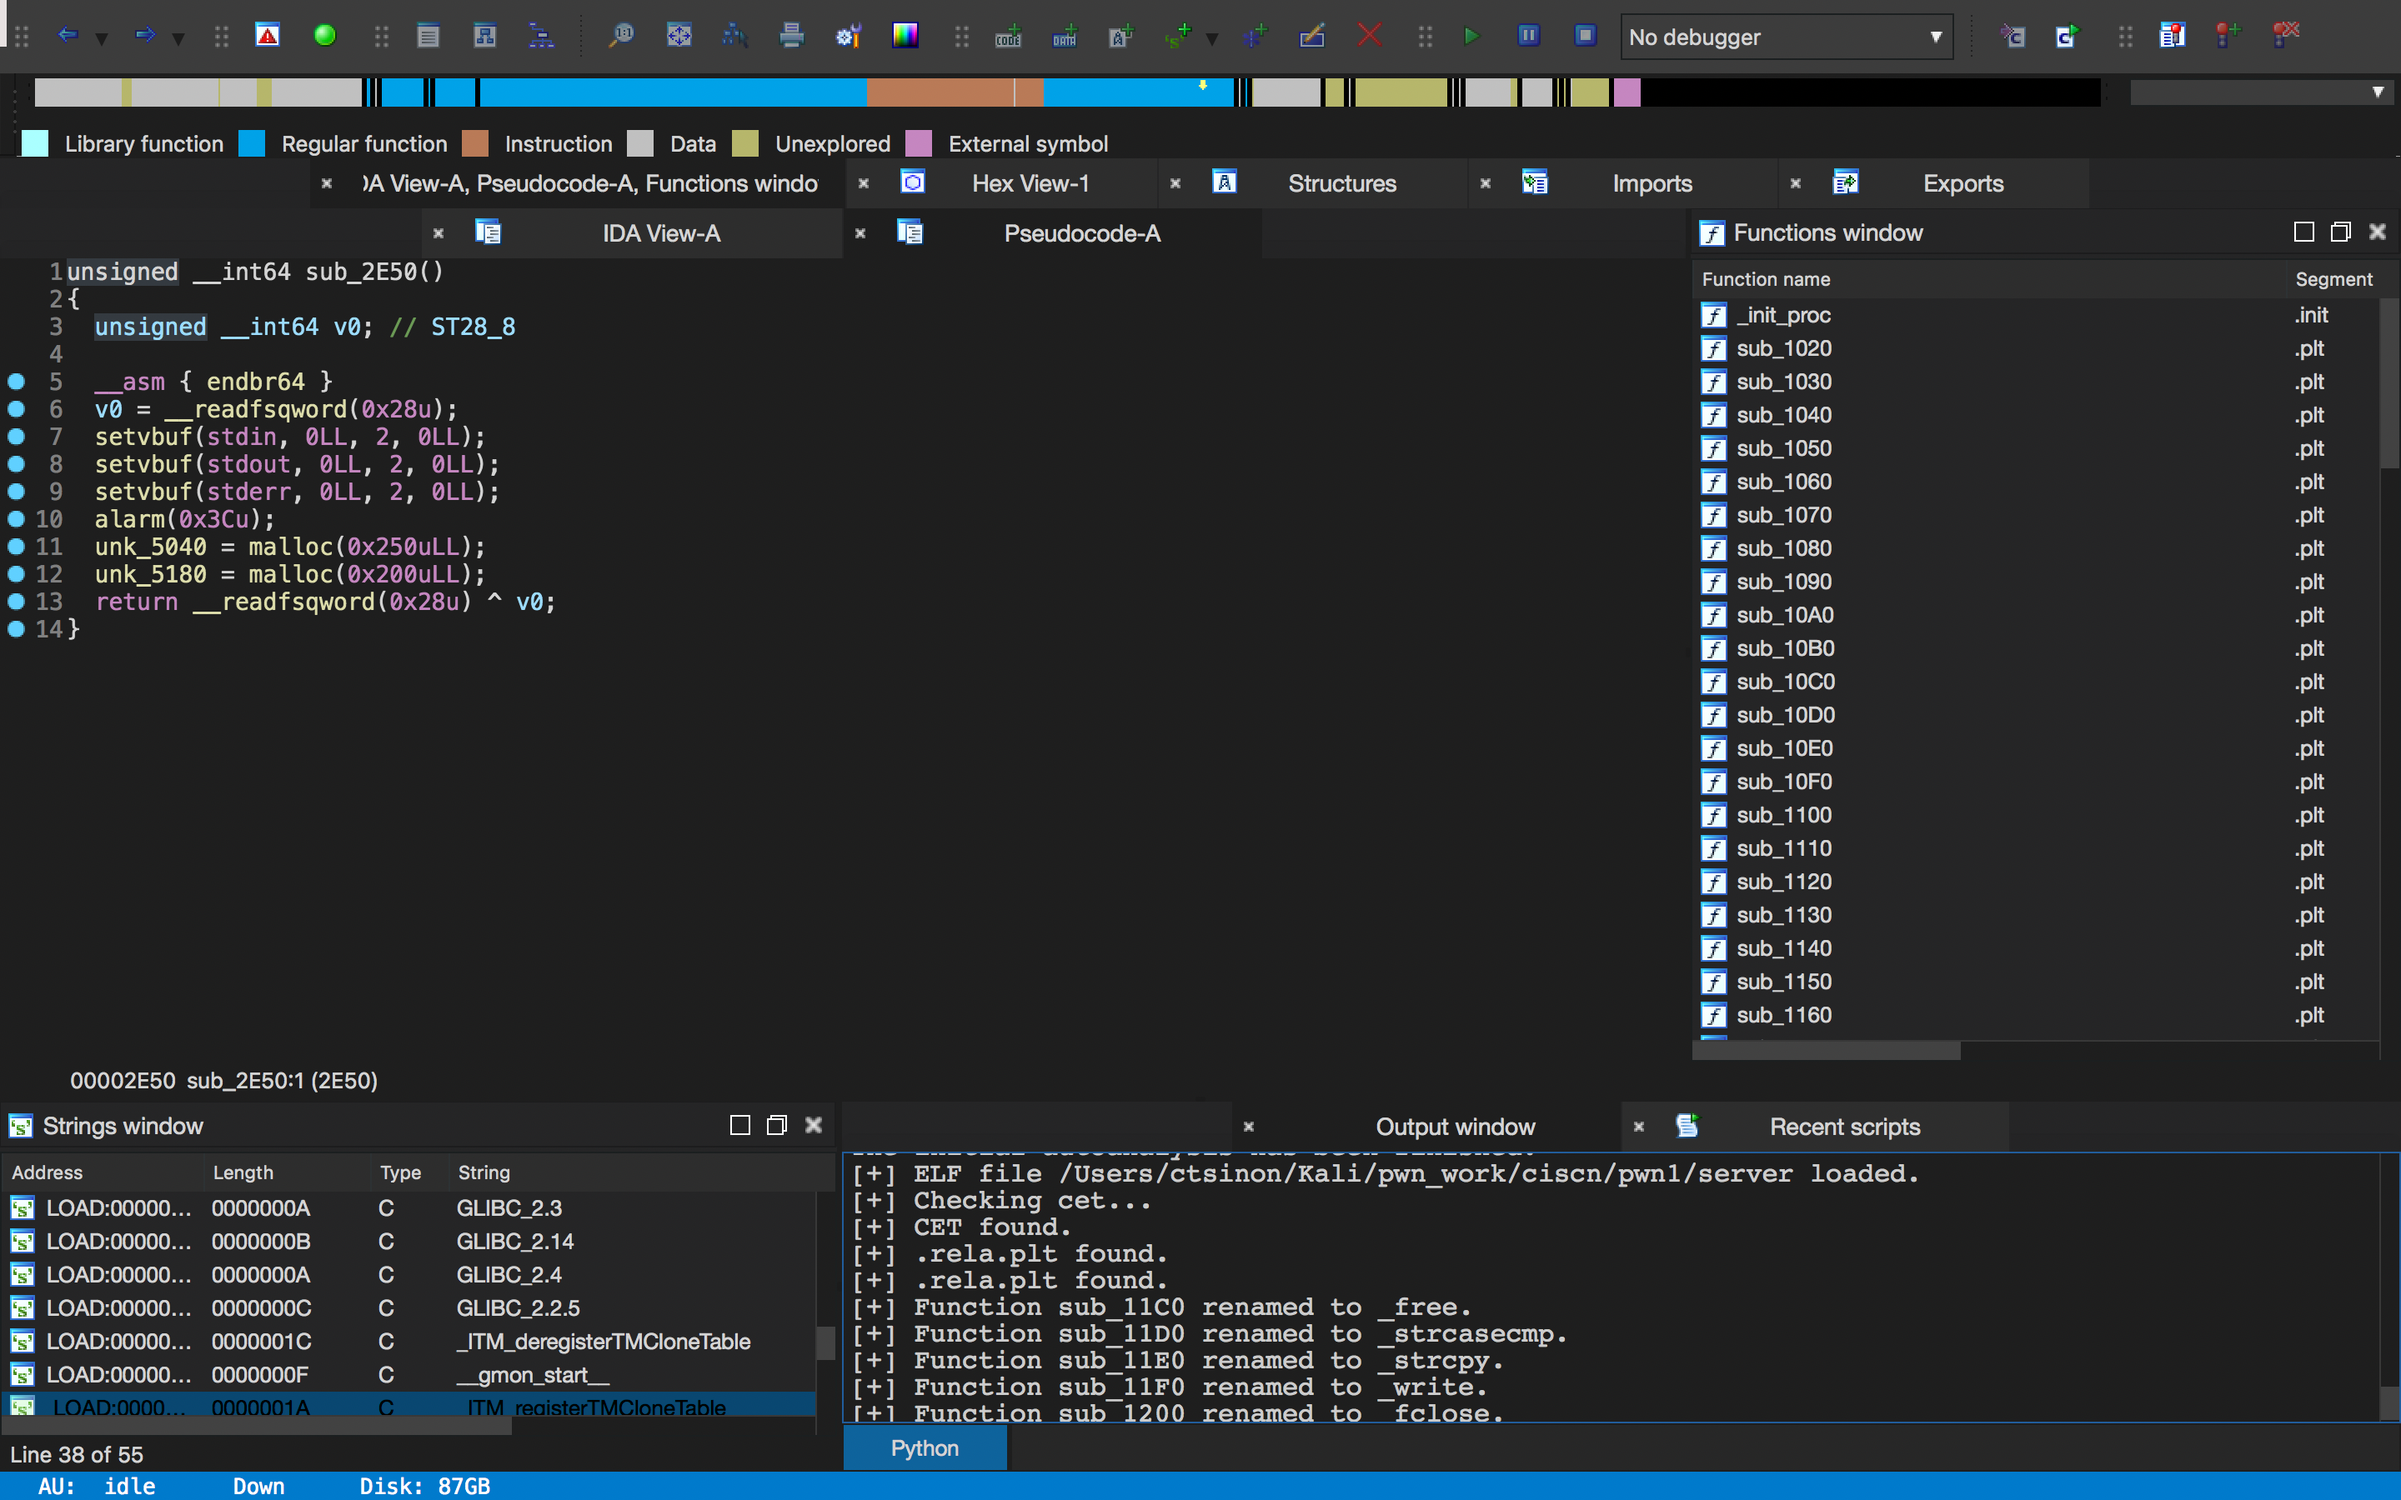
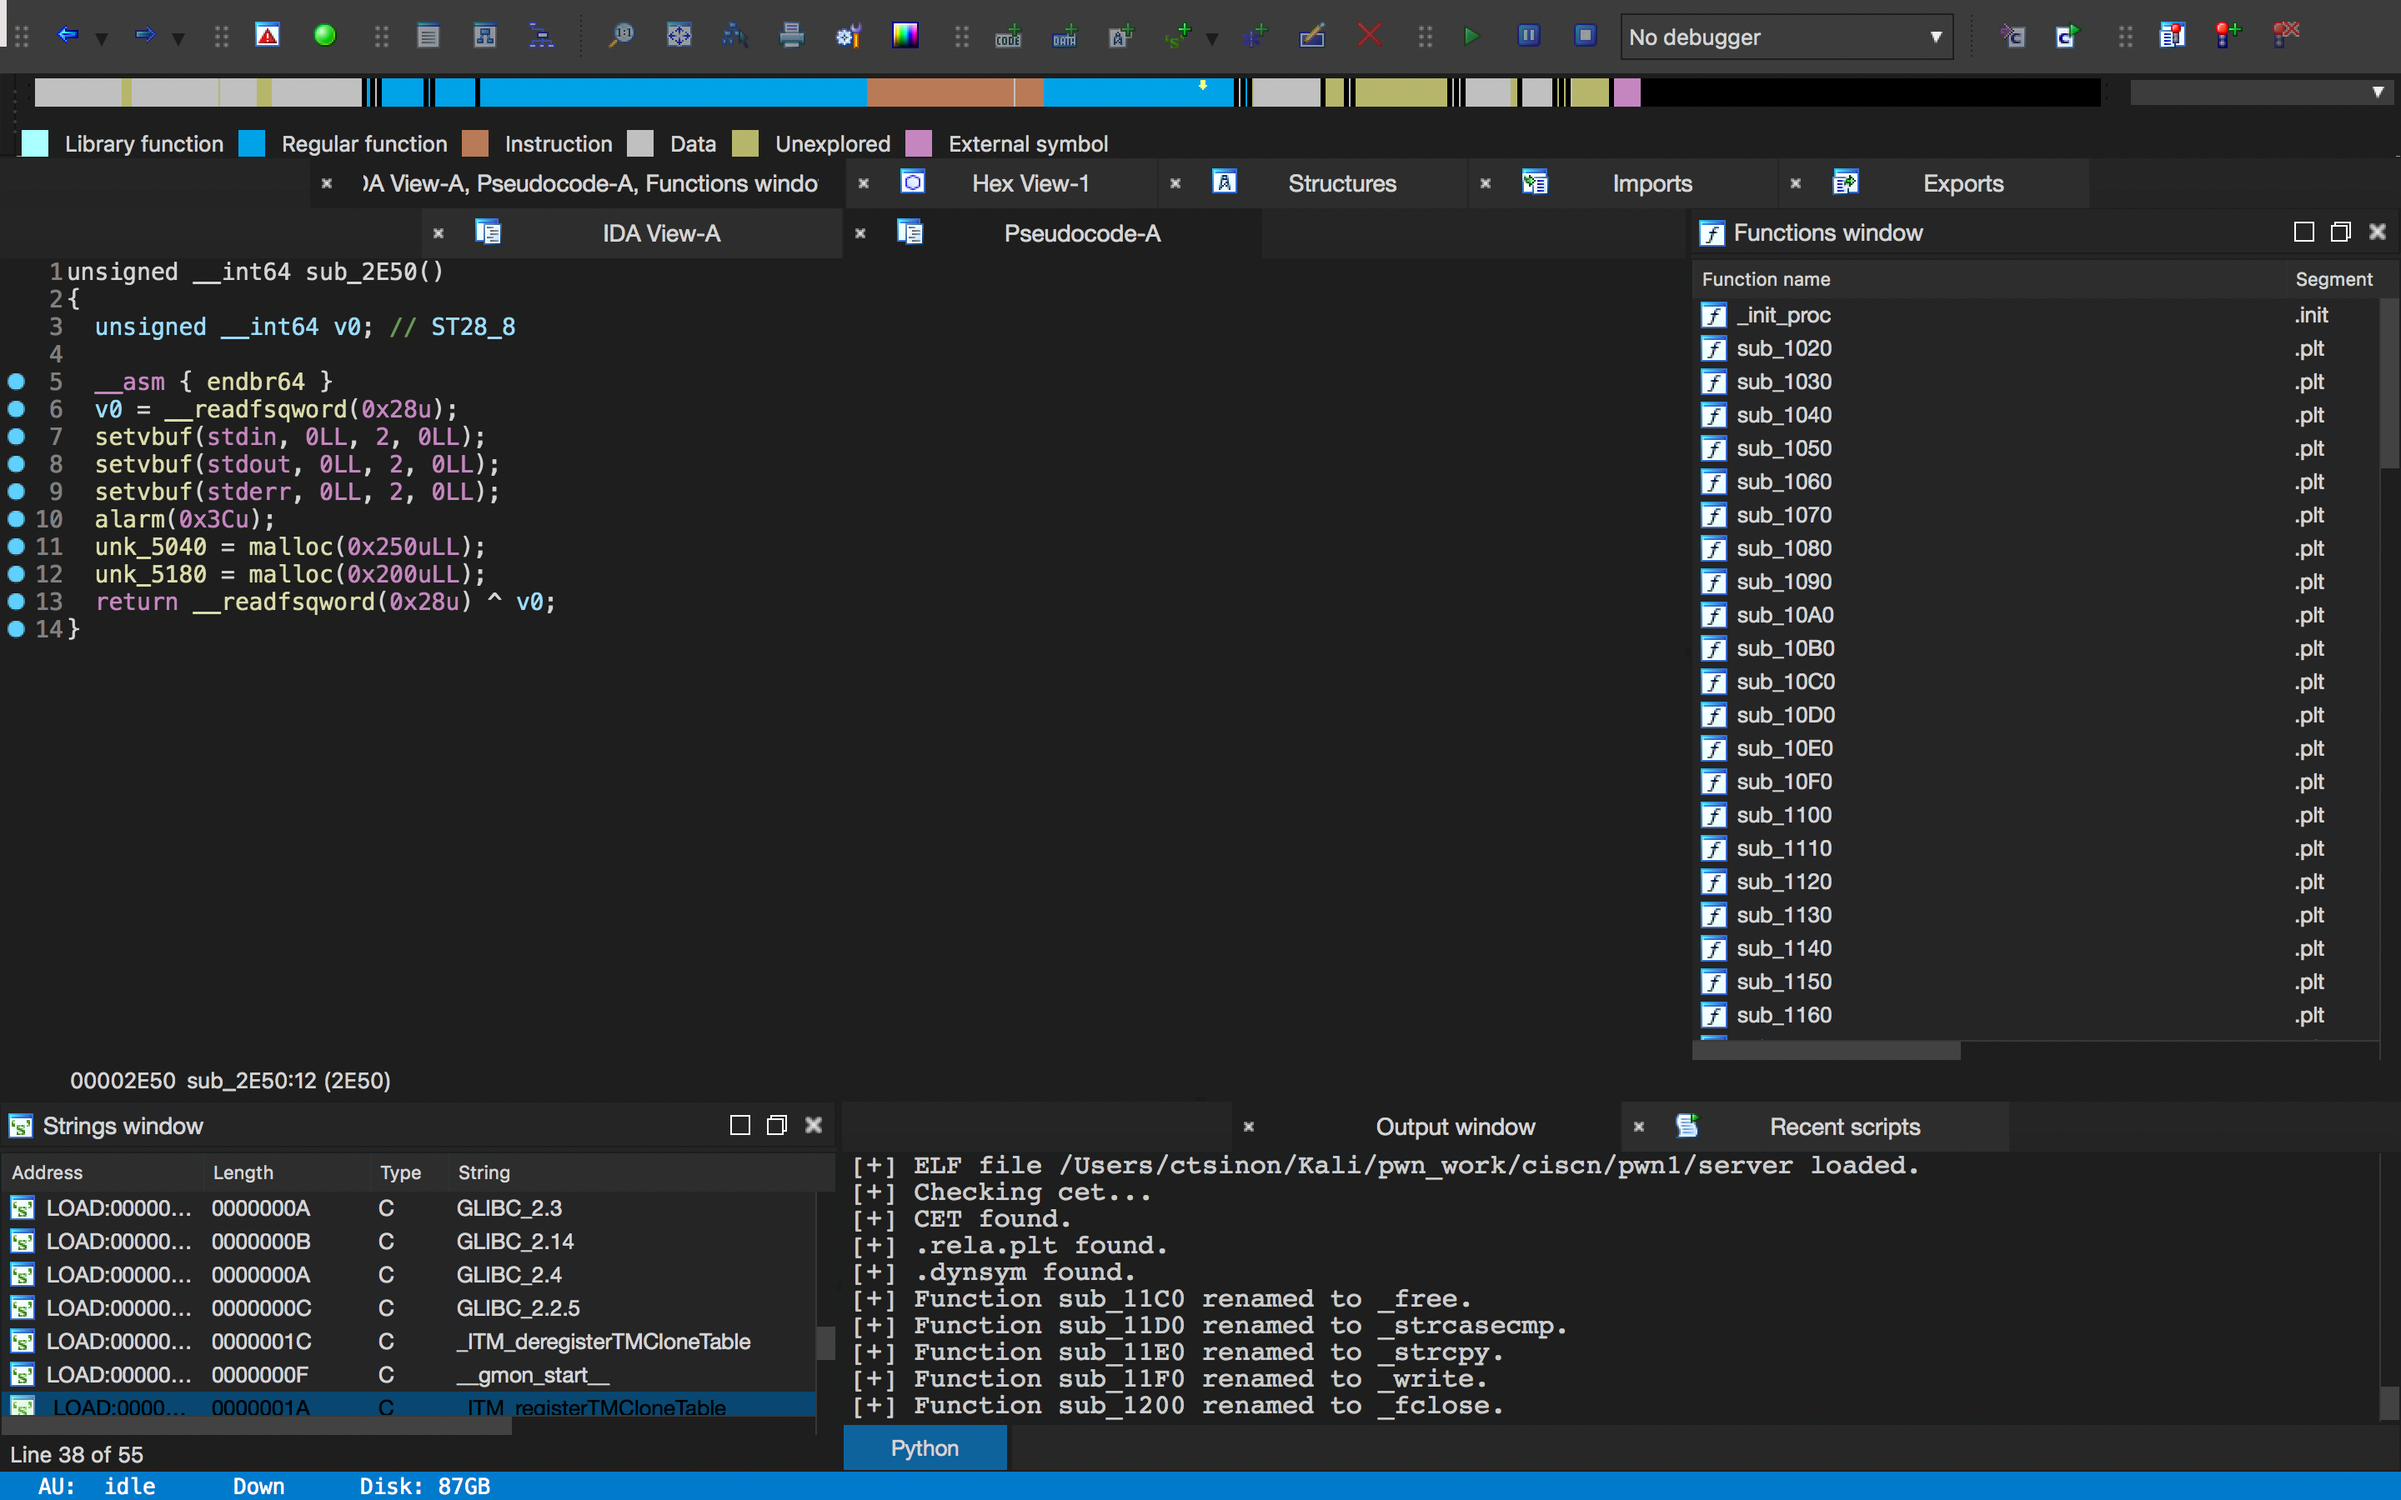
bug fixed

Changed region(s): [[0.3438, 0.7467, 0.8125, 0.9644], [0.0312, 0.1556, 0.0938, 0.2489], [0.125, 0.7156, 0.1562, 0.7467]]

diff --git a/fxxk_cet.py b/fxxk_cet.py
@@ -41,7 +41,7 @@ def load_section(elf, name):
     if not tmp:
         log("%s not found, this file may be damaged." % name)
         return
-    log("%s found.", name)
+    log("%s found." % name)
     return tmp
 
 
